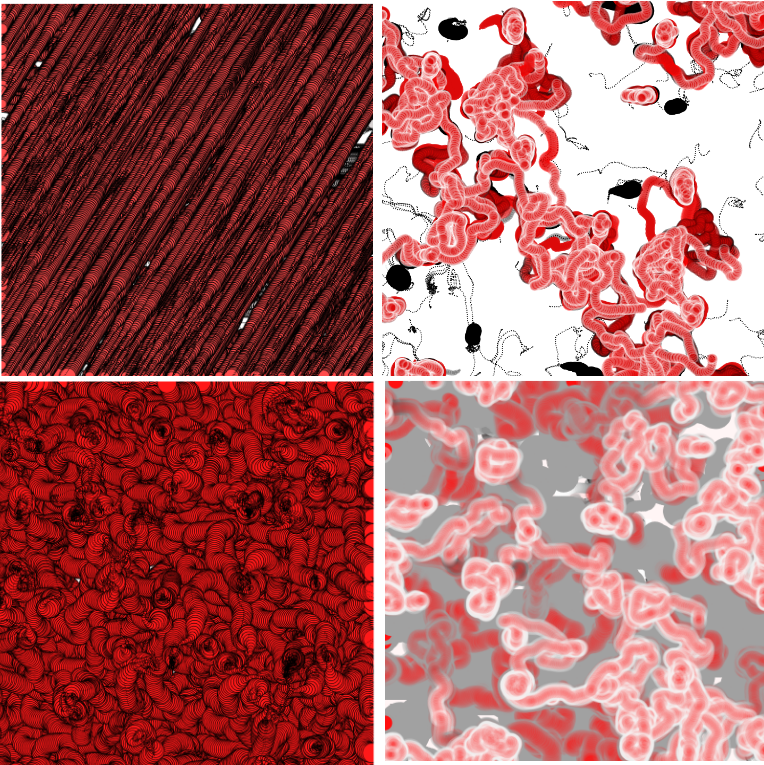
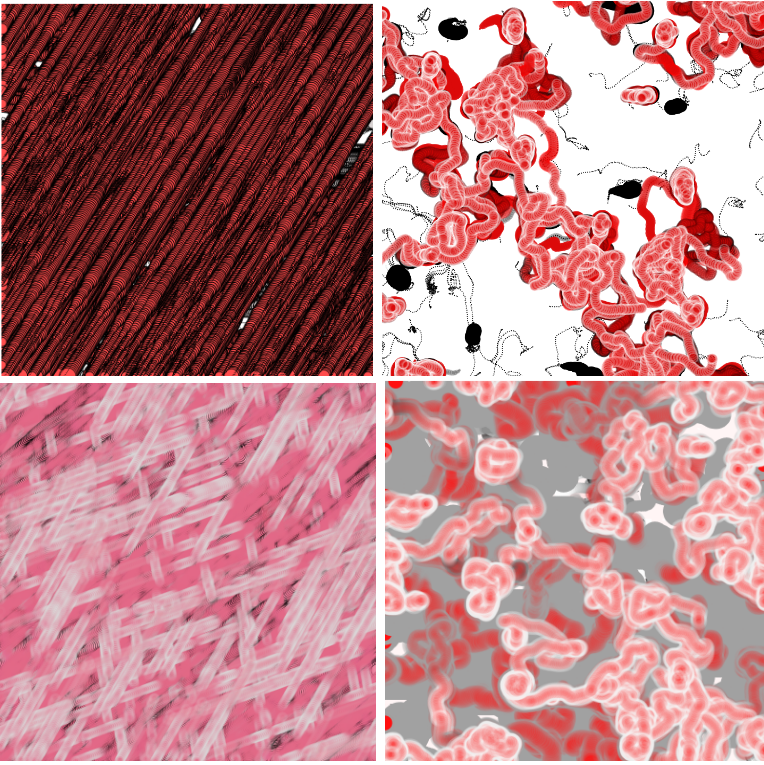
facegen

Changed region(s): [[0.0, 0.481, 0.5118, 1.0]]

diff --git a/Week 6/parameters-face/sketch.js b/Week 6/parameters-face/sketch.js
@@ -1,0 +1,147 @@
+let imgBaseFace;
+let faceWidth = 350;
+let sliderHair, sliderBrow, sliderEyes, sliderNose, sliderAcc, sliderFill, sliderMouth, sliderFace;
+var paramHair, paramBrow, paramEyes, paramNose, paramAcc, paramFill, paramMouth, paramFace;
+let eyes, nose, mouth, faces;
+
+function preload() {
+
+    // imgBaseFace = loadImage('assets/face2.png');
+
+    face1 = loadImage('assets/facebrush.png');
+    face2 = loadImage('assets/face2.png');
+    face3 = loadImage('assets/face3.png');
+    face4 = loadImage('assets/face4.png');
+
+    hair1 = loadImage('assets/hair1.png');
+    hair2 = loadImage('assets/hair2.png');
+    hair3 = loadImage('assets/hair3.png');
+    hair4 = loadImage('assets/hair4.png')
+    eyes1 = loadImage('assets/eyes1.png');
+    eyes2 = loadImage('assets/eyes2.png');
+    eyes3 = loadImage('assets/eyes3.png');
+    eyes4 = loadImage('assets/eyes4.png');
+    nose1 = loadImage('assets/nose1_1.png');
+    nose2 = loadImage('assets/nose2.png');
+    nose3 = loadImage('assets/nose3.png');
+    nose4 = loadImage('assets/nose4.png');
+    mouth1 = loadImage('assets/lips1.png');
+    mouth2 = loadImage('assets/lips2.png');
+    mouth3 = loadImage('assets/lips3.png');
+    mouth4 = loadImage('assets/lips4.png');
+
+    eyes = [eyes1, eyes2, eyes3, eyes4];
+    nose = [nose1, nose2, nose3, nose4];
+    mouth = [mouth1, mouth2, mouth3, mouth4];
+    hair = [hair1, hair2, hair3, hair4]
+    faces = [face1, face2, face3, face4];
+}
+
+let faceWidthOffset = 50;
+
+function sliderLabels(){
+    let sliderY = 20;
+    sliderY += 70;
+    text('Hair', faceWidth+faceWidthOffset, sliderY)
+    sliderY += 70;
+    text('Face', faceWidth+faceWidthOffset, sliderY)
+    sliderY += 70;
+    text('Eyes', faceWidth+faceWidthOffset, sliderY)
+    sliderY += 70;
+    text('Nose', faceWidth+faceWidthOffset, sliderY)
+    sliderY += 70;
+    text('Mouth', faceWidth+faceWidthOffset, sliderY)
+}
+
+
+function createSliders(){
+    textStyle(BOLD)
+    let sliderY = 20;
+    
+    sliderFill = createColorPicker('#FFFFFF');
+    sliderFill.position(faceWidth+faceWidthOffset, sliderY+20)
+
+    sliderY += 70;
+    text('Hair', faceWidth+faceWidthOffset, sliderY)
+    sliderHair = createSlider(0,3, parseInt(random(0, 3)),1)
+    sliderHair.style('width', '100px')
+    sliderHair.position(faceWidth+faceWidthOffset, sliderY+20)
+
+    sliderY += 70;
+    text('Face', faceWidth+faceWidthOffset, sliderY)
+    sliderFace = createSlider(0,3, parseInt(random(0, 3)),1)
+    sliderFace.style('width', '100px')
+    sliderFace.position(faceWidth+faceWidthOffset, sliderY+20)
+
+    sliderY += 70;
+    text('Eyes', faceWidth+faceWidthOffset, sliderY)
+    sliderEyes = createSlider(0,3, parseInt(random(0, 3)),1)
+    sliderEyes.style('width', '100px')  
+    sliderEyes.position(faceWidth+faceWidthOffset, sliderY+20)  
+
+    sliderY += 70;
+    text('Nose', faceWidth+faceWidthOffset, sliderY)
+    sliderNose = createSlider(0,3, parseInt(random(0, 3)),1)
+    sliderNose.style('width', '100px')  
+    sliderNose.position(faceWidth+faceWidthOffset, sliderY+20)     
+
+    sliderY += 70;
+    text('Mouth', faceWidth+faceWidthOffset, sliderY)
+    sliderMouth = createSlider(0,3, parseInt(random(0, 3)),1)
+    sliderMouth.style('width', '100px')  
+    sliderMouth.position(faceWidth+faceWidthOffset, sliderY+20)     
+}
+
+
+function setup() {
+    createCanvas(700, 700)  
+    background(255 ); 
+    createSliders();  
+    angleMode(DEGREES)
+}
+
+function updateImgValues(){
+    //paramHair = hair[sliderHair.value()];
+    // paramBrow = 'brow' + str(sliderBrow.value());
+    // paramAcc = 'acc' + str(sliderAcc.value());
+
+    paramFace = faces[sliderFace.value()]
+    paramHair = hair[sliderHair.value()];
+    paramEyes=  eyes[sliderEyes.value()];
+    paramNose = nose[sliderNose.value()];
+    paramMouth = mouth[sliderMouth.value()];
+
+
+    paramFill =  color(sliderFill.value());
+}
+
+var currAngle = 0;
+
+function draw() {
+
+    background(255); 
+    sliderLabels();
+    updateImgValues();
+
+        // rotate(currAngle)
+    // currAngle += .09;
+
+
+    paramFace.width = 300;
+    tint(paramFill) ;
+    image (paramFace, 30, 60);
+
+
+    if (paramHair == hair1){
+        image (paramHair, 14, 20)
+    } else if (paramHair == hair2) {
+        image (paramHair, -10, 0)
+    } else if (paramHair == hair3){
+        image (paramHair, 0, 0)
+    } 
+    
+
+    image (paramEyes, 113, 215)
+    image(paramNose, 175, 305)
+    image(paramMouth, 155, 405)
+}
